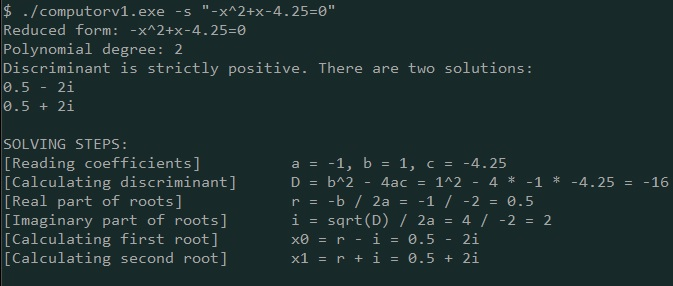
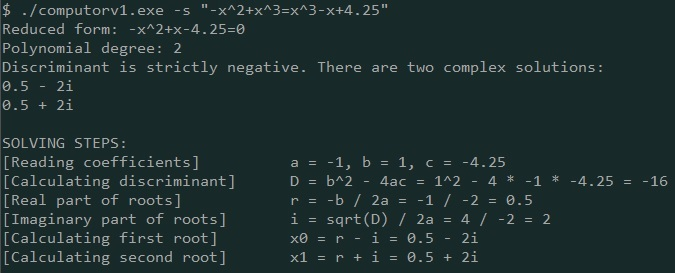
Cosmetic fixes.

diff --git a/src/EquationSolver.cs b/src/EquationSolver.cs
@@ -13,8 +13,6 @@ namespace computorv1
         {
             Any,
             None,
-            OneRoot,
-            TwoRoots
         }
 
         public SolutionTypes SolutionType { get; private set; }
@@ -59,36 +57,9 @@ namespace computorv1
             Discriminant = b * b - 4 * a * c;
             Steps.Add($"[Calculating discriminant]\tD = b^2 - 4ac = {b}^2 - 4 * {a} * {c} = {Discriminant}");
             if (Discriminant >= 0)
-            {
                 SolveQuadratic(a, b);
-                // sqrD = ShitMath.Sqrt(Discriminant);
-                // Roots.Add(_shouldNotReduceFraction ? "" + (-b + sqrD + "/" + 2 * a) : "" + (-b + sqrD) / (2 * a));
-                // SolvingSteps.Add(
-                //     $"[Calculating first root]\tx0 = (-b + sqrt(D)) / 2a = ({-b} + {sqrD}) / {2 * a} = {Roots[0]}");
-                // if (Discriminant > 0)
-                // {
-                //     Roots.Add(_shouldNotReduceFraction ? "" + (-b - sqrD + "/" + 2 * a) : "" + (-b - sqrD) / (2 * a));
-                //     SolvingSteps.Add(
-                //         $"[Calculating second root]\tx0 = (-b - sqrt(D)) / 2a = ({-b} - {sqrD}) / {2 * a} = {Roots[1]}");
-                // }
-            }
             else
-            {
                 SolveComplex(a, b);
-                // Discriminant = -Discriminant;
-                // sqrD = ShitMath.Sqrt(Discriminant);
-                // var real = -b / (2 * a);
-                // var imaginary = ShitMath.Abs(sqrD / (2 * a));
-                // var rStr = _shouldNotReduceFraction ? -b + "/" + 2 * a : "" + real;
-                // var iStr = _shouldNotReduceFraction ? sqrD + "/" + 2 * a : "" + imaginary;
-                //
-                // SolvingSteps.Add($"[Real part of roots]\t\tr = -b / 2a = {-b} / {2 * a} = {rStr}");
-                // SolvingSteps.Add($"[Imaginary part of roots]\ti = sqrt(D) / 2a = {sqrD} / {2 * a} = {iStr}");
-                // SolvingSteps.Add($"[Calculating first root]\tx0 = r - i = {rStr} - {iStr}i");
-                // SolvingSteps.Add($"[Calculating second root]\tx1 = r + i = {rStr} + {iStr}i");
-                // Roots.Add(rStr + " - " + iStr + "i");
-                // Roots.Add(rStr + " + " + iStr + "i");
-            }
         }
 
         private void SolveLinear(double b, double c)
@@ -104,8 +75,7 @@ namespace computorv1
 
         private void SolveComplex(double a, double b)
         {
-            Discriminant = -Discriminant;
-            var sqrD = ShitMath.Sqrt(Discriminant);
+            var sqrD = ShitMath.Sqrt(-Discriminant);
             var real = -b / (2 * a);
             var imaginary = ShitMath.Abs(sqrD / (2 * a));
             var rStr = _shouldNotReduceFraction ? -b + "/" + 2 * a : "" + real;

diff --git a/src/Computor.cs b/src/Computor.cs
@@ -21,8 +21,6 @@ namespace computorv1
             catch (Exception e)
             {
                 Console.WriteLine("[Error] " + (e.Message.Length != 0 ? e.Message : e.ToString()));
-                // if (e.StackTrace !=  null)
-                //     Console.WriteLine(e.StackTrace);
             }
         }
 
@@ -35,13 +33,20 @@ namespace computorv1
 
             Array.Copy(args, opts, args.Length - 1);
             optsParser.Parse(opts);
-            if (optsParser.RndFlagSet)
-                GenerateRandomEquations(optsParser.RndEquationsCount);
             equation = EquationParser.Parse(args[^1]);
             solver = new EquationSolver(equation, optsParser.FFlagSet);
-            Console.WriteLine($"Reduced form: {equation}");
             solver.Solve();
+            
+            PrintInfo(solver, optsParser, equation);
+            if (optsParser.RndFlagSet)
+                GenerateRandomEquations(optsParser.RndEquationsCount);
+        }
+
+        private static void PrintInfo(EquationSolver solver, OptionsParser optsParser, string equation)
+        {
+            Console.WriteLine($"Reduced form: {equation}");
             Console.WriteLine($"Polynomial degree: {solver.Degree}");
+            
             if (solver.Degree == 0)
             {
                 Console.WriteLine(solver.SolutionType == EquationSolver.SolutionTypes.Any
@@ -57,7 +62,7 @@ namespace computorv1
                 else if (solver.Discriminant == 0)
                     Console.WriteLine("Discriminant is 0. There is one solution:");
                 else
-                    Console.WriteLine("Discriminant is strictly negative. No real solutions, but there are two complex solutions:");
+                    Console.WriteLine("Discriminant is strictly negative. There are two complex solutions:");
                 foreach (var root in solver.Roots)
                     Console.WriteLine(root);
             }

diff --git a/src/EquationParser.cs b/src/EquationParser.cs
@@ -14,7 +14,7 @@ namespace computorv1
         
         public static string Parse(string equation)
         {
-            if (!equation.Contains('x'))
+            if (!equation.Contains('x', StringComparison.CurrentCultureIgnoreCase))
                 throw new Exception("forgot to put x, huh?");
             var trimmedEqu = Regex.Replace(equation, @"\s+", "").ToLower();
 
